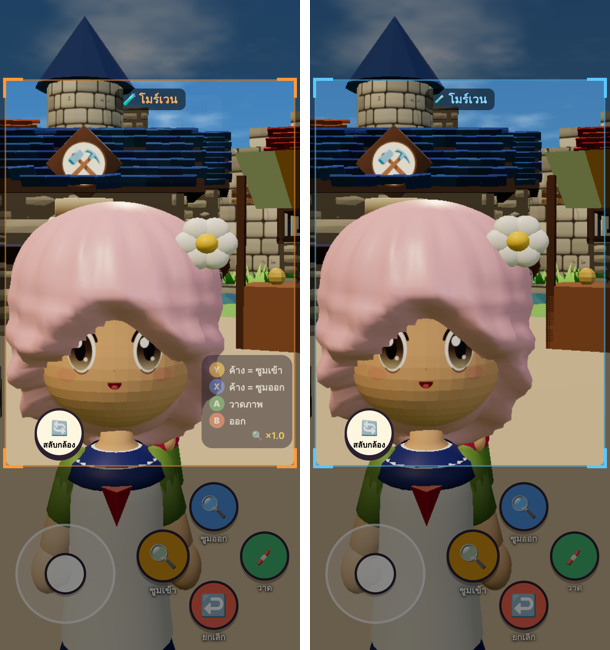
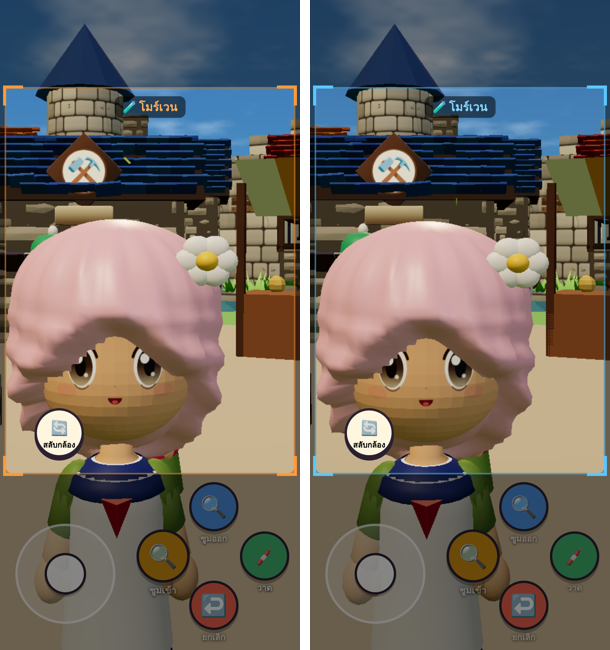
feat(newgame): viewfinder ends above the blue button
Claude-Session: https://claude.ai/code/session_01GPWeNez232vT9ersFNk7wt

diff --git a/newgame/src/main.js b/newgame/src/main.js
@@ -3332,7 +3332,7 @@ function chgTick() { holdTick(); if (CHGA) { const k = Math.min(1, (performance.
 /* v3.18 🎯 Y = tap once to aim (no holding) · Y zoom in · X zoom out · A use (hold = charge) · B leave · a legend blinks the first few times */
 const YLG = (() => { const e = document.createElement('div'); e.id = 'ylg'; document.body.appendChild(e); return e })();
 const YACT = { throw: 'ปา · ค้าง = แรงขึ้น (หอกแม่นสุด)', bow: 'ยิง · ค้าง = ชาร์จแรงขึ้น', rod: 'เหวี่ยงเบ็ด · ค้าง = เลือกระยะ', dig: 'ขุดดิน', net: 'โยนตาข่าย · ค้าง = เลือกระยะ', draw: 'วาดภาพ' };
-function aimStart(kind = 'bow') { aimStart0(kind); if (!AIM) return; AIM.zm = 1; AIM.zd = 0; AIM.ch = 0; AIM.kind = kind; gyroAsk(); YLG.classList.remove('gone'); if (kind === 'draw') { setTimeout(() => { if (AIM && AIM.draw) YLG.classList.add('gone') }, 3000); for (const k in KNPC) KNPC[k].mk.visible = false }   /* v4.94 the drawing frame: the help fades after 3 s · no ❗💬 over heads */
+function aimStart(kind = 'bow') { aimStart0(kind); if (!AIM) return; AIM.zm = 1; AIM.zd = 0; AIM.ch = 0; AIM.kind = kind; gyroAsk(); YLG.classList.remove('gone'); if (kind === 'draw') { requestAnimationFrame(frameLay); setTimeout(() => { if (AIM && AIM.draw) YLG.classList.add('gone') }, 3000); for (const k in KNPC) KNPC[k].mk.visible = false }   /* v4.94 the drawing frame: the help fades after 3 s · no ❗💬 over heads */
   YLG.innerHTML = `<p><b class="ky">Y</b>ค้าง = ซูมเข้า</p><p><b class="kx">X</b>ค้าง = ซูมออก</p><p><b class="ka">A</b>${YACT[kind] || YACT.bow}</p><p><b class="kb">B</b>ออก</p><p class="zm"></p>`; S.yHelp = (S.yHelp || 0) + 1; YLG.classList.toggle('blink', S.yHelp <= D.YHELP); zoomLbl() }
 /* v3.18.1 smooth zoom: hold Y = in · hold X = out (AIM.zd = +1 / −1 while held) */
 const zmOf = () => AIM && AIM.zm || 1;
@@ -3758,7 +3758,7 @@ function drawFlip() { if (!AIM || !AIM.draw) return; AIM.selfie = !AIM.selfie; A
 function drawPose() { if (!AIM || !AIM.selfie) return; AIM.pose = ((AIM.pose || 0) + 1) % DPOSE.length; const P = DPOSE[AIM.pose]; poseBtn.innerHTML = `${P.i}<small>${P.n}</small>`; sfx('tap') }
 /* v4.94 (designer) 🔲 the viewfinder: the picture is what is inside the frame (D.DRAWFRAME) */
 const DFRAME = (() => { const e = document.createElement('div'); e.id = 'dframe'; e.innerHTML = '<i></i><i></i><i></i><i></i>'; document.body.appendChild(e); return e })();
-function frameLay() { const F = D.DRAWFRAME, w = Math.min(innerWidth * F.w, innerHeight * F.hMax * F.ar), h = w / F.ar; Object.assign(DFRAME.style, { width: w + 'px', height: h + 'px', left: (innerWidth - w) / 2 + 'px', top: Math.max(10, innerHeight * F.top - h / 2) + 'px' }) }
+function frameLay() { const F = D.DRAWFRAME, bx = document.getElementById('bX'), r = bx && bx.getBoundingClientRect(), bot = r && r.height ? r.top - F.gap : innerHeight * (F.top + F.hMax / 2), top0 = F.gap; let h = Math.min(bot - top0, innerWidth * F.w / F.ar), w = h * F.ar; Object.assign(DFRAME.style, { width: w + 'px', height: h + 'px', left: (innerWidth - w) / 2 + 'px', top: (bot - h) + 'px' }) }   /* v4.94 (designer) the frame ends above the blue button */
 addEventListener('resize', frameLay); frameLay();
 function frameCrop(src) { const r = DFRAME.getBoundingClientRect(), k = src.width / innerWidth, c = document.createElement('canvas'); if (!r.width) return src; c.width = Math.round(r.width * k); c.height = Math.round(r.height * k); c.getContext('2d').drawImage(src, r.left * k, r.top * k, c.width, c.height, 0, 0, c.width, c.height); return c }
 const mkDB = (id, html, fn) => { const b = document.createElement('button'); b.id = id; b.className = 'dbx'; b.innerHTML = html; b.addEventListener('pointerdown', e => { e.preventDefault(); e.stopPropagation(); fn() }); document.body.appendChild(b); return b };

diff --git a/newgame/src/data.js b/newgame/src/data.js
@@ -475,7 +475,7 @@ export const FRIEND = {   /* v4.90 💞 friendship (designer · docs/plan-friend
   shop: { potion: ['herb', 'flower'], food: ['meat', 'fish'], tools: ['nut', 'egg'], smith: ['meat', 'spice'], market: ['veg', 'fruit'], guild: ['meat', 'sweet'], tailor: ['flower', 'sweet'], bar: ['fruit', 'squid'], inn: ['sweet', 'dairy'] },   /* v4.91 the harbour's shopkeepers + Martha (key 'harbour:shop_<k>') */
   extra: ['egg', 'nut', 'veg', 'sweet', 'dairy', 'fruit', 'fish'], hate: ['stone', 'hay', 'monster', 'salt', 'seed'],
   tagN: { fish: '🐟 ปลา', seaweed: '🌊 สาหร่าย', squid: '🦑 ปลาหมึก', fruit: '🍎 ผลไม้', herb: '🌿 สมุนไพร', flower: '🌸 ดอกไม้', spice: '🌶 เครื่องเทศ', sweet: '🍯 ของหวาน', meat: '🍖 เนื้อ', dairy: '🥛 นม/ชีส', monster: '👾 ของจากมอนสเตอร์', egg: '🥚 ไข่', nut: '🌰 ถั่ว', veg: '🥕 ผัก', stone: '🪨 หิน', hay: '🌾 ฟาง', salt: '🧂 เกลือ', gem: '💎 อัญมณี', wrap: '🍃 ใบไม้ห่อ', cool: '🧊 ของเย็น', seed: '🌱 เมล็ดพันธุ์', mat: '🪵 วัสดุ', misc: '📦 ของอื่นๆ' } };
-export const DRAWFRAME = { ar: 9 / 12, w: .96, hMax: .8, top: .42, reach: 16 };   /* reach = how far (m) a thing can be named in the frame */   /* v4.94 🔲 the drawing viewfinder: width ÷ height · share of the screen width · max share of the height · centre at this share of the height */
+export const DRAWFRAME = { ar: 9 / 12, w: .96, hMax: .8, top: .42, gap: 12, reach: 16 };   /* reach = how far (m) a thing can be named in the frame */   /* v4.94 🔲 the drawing viewfinder: width ÷ height · share of the screen width · max share of the height · centre at this share of the height */
 export const SELFIE = { d: 3.2, h: 1.25, look: 1.0 };   /* v4.94 🤳 the selfie camera in the drawing frame: distance (÷ zoom) · height · looks at this height on you */
 export const POUCH = { s: .42, at: [0, -.05, -.26] };   /* v4.88 👝 the leather pouch at the back of the belt: size · place on the waist */
 export const GOLD = { hold: .38 };   /* v4.88 🟡 the gold button: hold this long (s) = the options panel */
